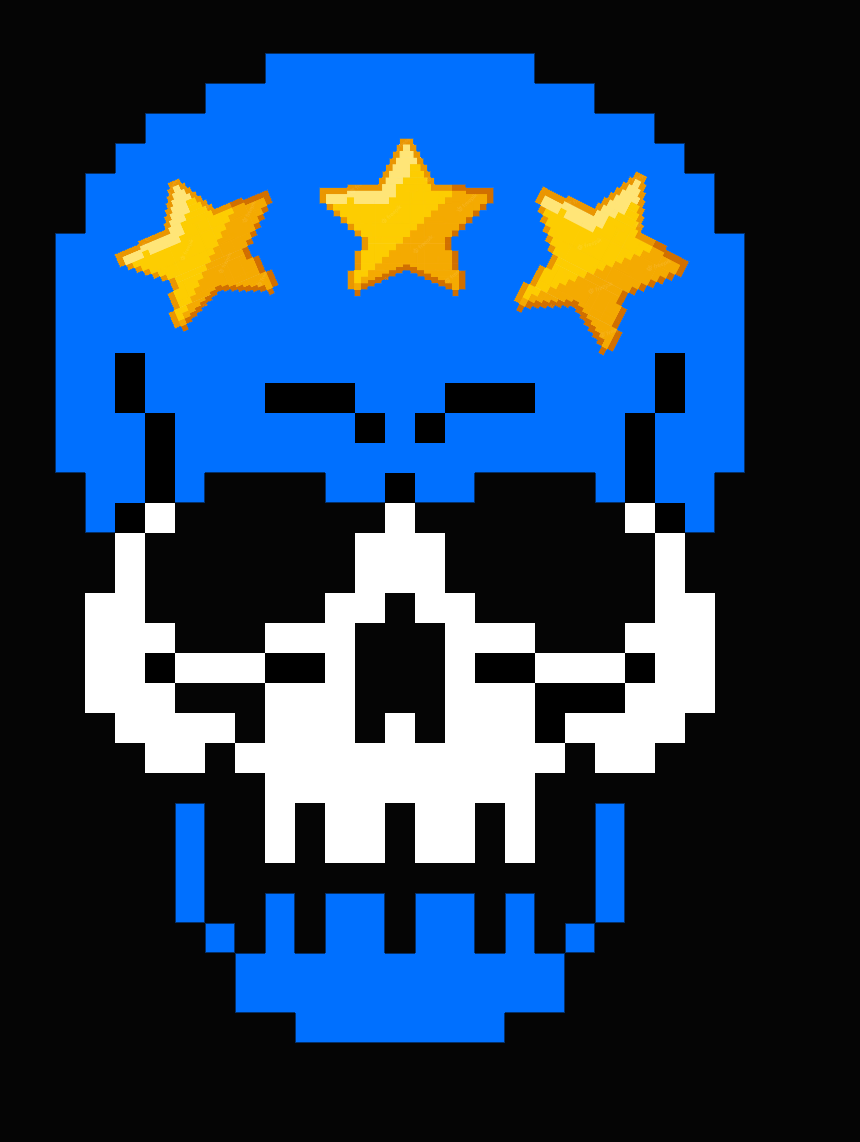
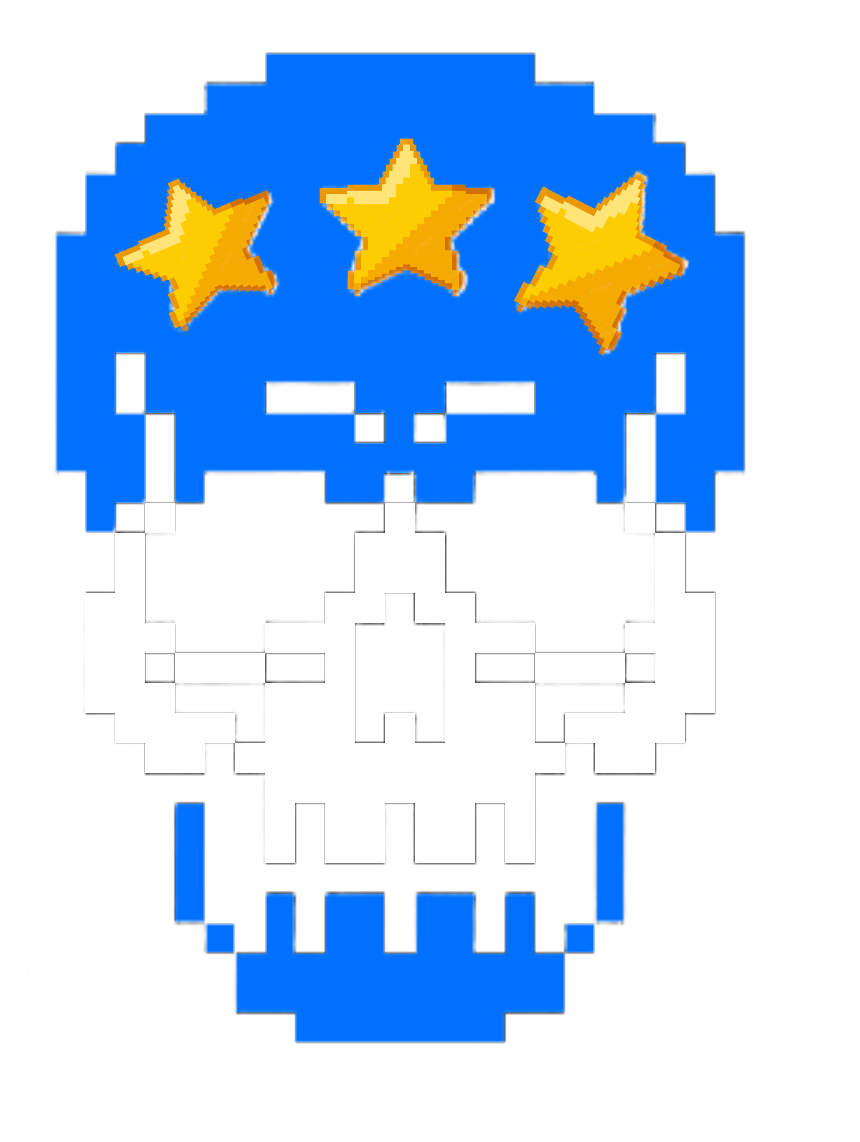
Cambie el color de Background en Pagina y divs quedo mucho mejor

diff --git a/CSS/Style.css b/CSS/Style.css
@@ -15,8 +15,6 @@
 /* Todo el Index */
 
 body {
-    background: rgb(2,0,36);
-    background: linear-gradient(180deg, rgba(2,0,36,1) 27%, rgba(15,21,148,1) 52%, rgba(0,212,255,1) 79%);
     margin: 0 auto;
     padding: 0 auto;
     box-sizing: border-box;
@@ -26,7 +24,7 @@ body {
 .TitulodePagina {
     display: flex;
     justify-content: center;
-    background: radial-gradient(circle at 10% 20%, rgb(0, 0, 0) 0%, rgb(64, 64, 64) 90.2%);
+    background: linear-gradient(180deg, #000000, #0e0419, #14082b, #150b3d, #140b51, #0f0b65, #01097a);
     font-size: 10px;
     font-family: "Monserrat", sans-serif;
     color: white;
@@ -36,7 +34,7 @@ body {
 /* Nav Bar Con BS y CSS Personalizado*/
 
 header {
-    background: radial-gradient(circle at 10% 20%, rgb(0, 0, 0) 0%, rgb(64, 64, 64) 90.2%);
+    background: linear-gradient(180deg, #000000, #0e0419, #14082b, #150b3d, #140b51, #0f0b65, #01097a);
     position: sticky;
     top: 0px;
     z-index: 100;
@@ -101,8 +99,9 @@ main {
 
 /*Mas Vendidos Carrusel Hecho con BS y CSS Personalizado*/
 
+
 .TituloMasVendidos{
-    background: radial-gradient(circle at 10% 20%, rgb(0, 0, 0) 0%, rgb(64, 64, 64) 90.2%);
+    background: linear-gradient(180deg, #000000, #0e0419, #14082b, #150b3d, #140b51, #0f0b65, #01097a);
     color: white;
     font-size: 25px;
     font-family: "Raleway" ,sans-serif;
@@ -119,6 +118,7 @@ main {
 .MasVendidos {
     margin-top: 50px;
     text-align: center;
+    background: linear-gradient(180deg, #000000, #0e0419, #14082b, #150b3d, #140b51, #0f0b65, #01097a);
 }
 
 .MasVendidos img {
@@ -134,6 +134,7 @@ main {
 }
 
 .OfertasPagina {
+    background: linear-gradient(180deg, #000000, #0e0419, #14082b, #150b3d, #140b51, #0f0b65, #01097a);
     width: 100%;
     margin-top: 50px;
     display: grid;
@@ -149,7 +150,7 @@ main {
 }
 
 .OfertasPagina h2 {
-    background: radial-gradient(circle at 10% 20%, rgb(0, 0, 0) 0%, rgb(64, 64, 64) 90.2%);
+    background: linear-gradient(180deg, #000000, #0e0419, #14082b, #150b3d, #140b51, #0f0b65, #01097a);
     color: white;
     font-size: 30px;
     font-family: "Raleway" ,sans-serif;
@@ -165,11 +166,13 @@ main {
 .OfertasPagina img {
     width: 400px;
     height: 400px;
+    border-radius: 10px;
 }
 
 .OfertasPagina iframe {
     width: 400px;
     height: 400px;
+    border-radius: 10px;
 }
 
 .RE4 {
@@ -198,22 +201,22 @@ main {
 
 .TituloOpiniones {
     margin-top: 100px;
-    border-top: #0070FF solid 5px;
-    background: radial-gradient(circle at 10% 20%, rgb(0, 0, 0) 0%, rgb(64, 64, 64) 90.2%);
+    background: linear-gradient(180deg, #000000, #0e0419, #14082b, #150b3d, #140b51, #0f0b65, #01097a);
     color: white;
     font-size: 30px;
     font-family: "Raleway" ,sans-serif;
     font-weight: bold;
     text-align: center;
+    margin-bottom: 50px;
+    border-radius: 10px;
 }
 
 .TituloOpiniones h2 {
-    margin: 0px;
+    margin: 10px;
 }
 
 .Opiniones {
-    background: radial-gradient(circle at 10% 20%, rgb(0, 0, 0) 0%, rgb(64, 64, 64) 90.2%);
-    border-bottom: #0070FF solid 5px;
+    background: linear-gradient(180deg, #000000, #0e0419, #14082b, #150b3d, #140b51, #0f0b65, #01097a);
     display: flex;
     flex-direction: row;
     align-content: flex-start;
@@ -254,10 +257,10 @@ footer {
     flex-direction: row;
     justify-content: flex-start;
     align-items: center;
-    background: radial-gradient(circle at 10% 20%, rgb(0, 0, 0) 0%, rgb(64, 64, 64) 90.2%);
+    background: linear-gradient(180deg, #000000, #0e0419, #14082b, #150b3d, #140b51, #0f0b65, #01097a);
     margin-top: 150px;
     padding: 40px;
-    border-top: #0070FF solid 5px;
+    border-top: darkblue solid 5px;
 }
 
 footer p {

diff --git a/index.html b/index.html
@@ -11,7 +11,7 @@
     <!--Bootstrap-->
     <link href="https://cdn.jsdelivr.net/npm/bootstrap@5.3.0-alpha3/dist/css/bootstrap.min.css" rel="stylesheet" integrity="sha384-KK94CHFLLe+nY2dmCWGMq91rCGa5gtU4mk92HdvYe+M/SXH301p5ILy+dN9+nJOZ" crossorigin="anonymous">
 </head>
-<body>
+<body class="bg-black">
 
     <h1 class="TitulodePagina">DIGITAL SKULL GAMES ARGENTINA</h1>
 
@@ -60,7 +60,6 @@
     </header>
 
     <main>
-
         <h2 class="TituloMasVendidos">MAS VENDIDOS</h2>
 
         <!--Carrusel Hecho con Bootstrap y JavaScript-->
